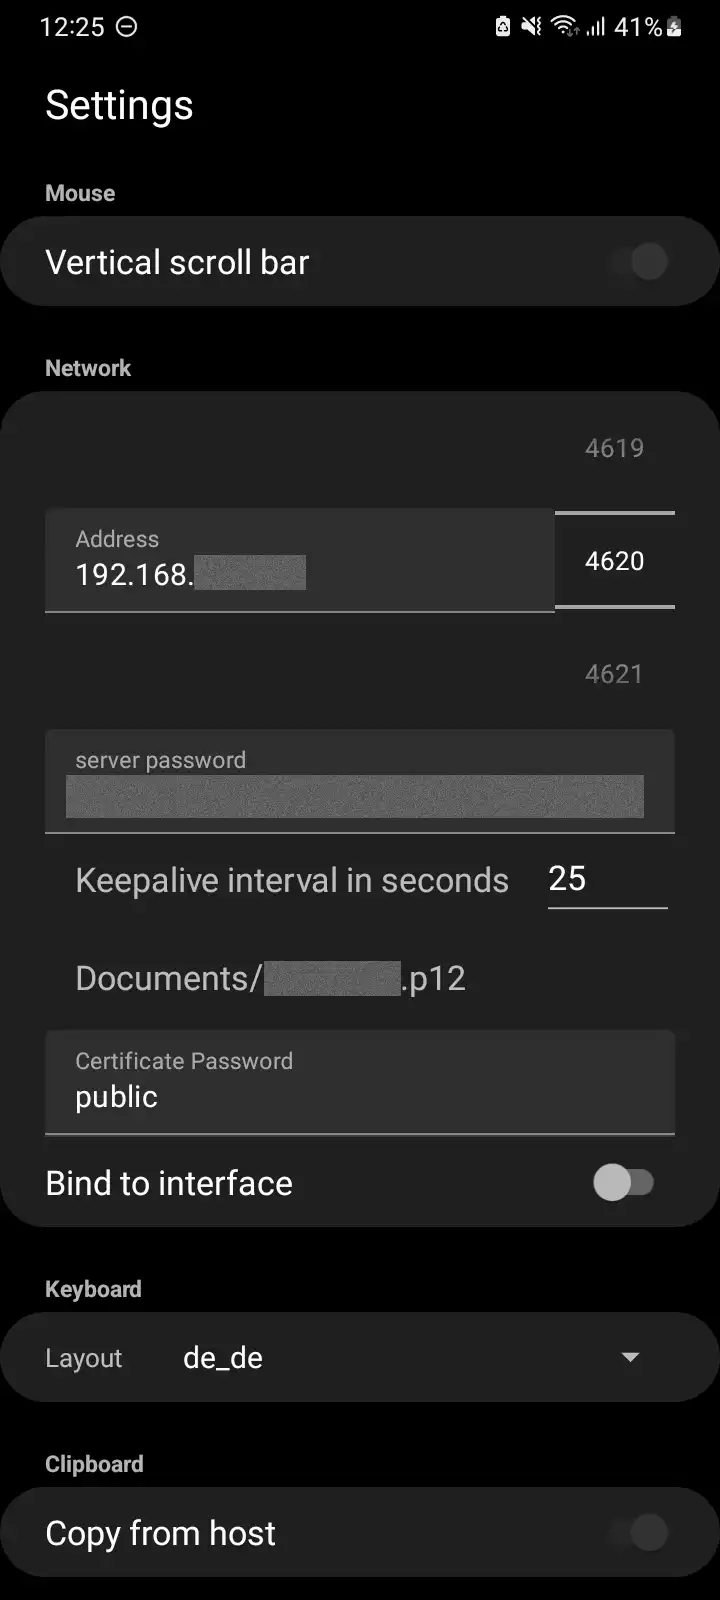
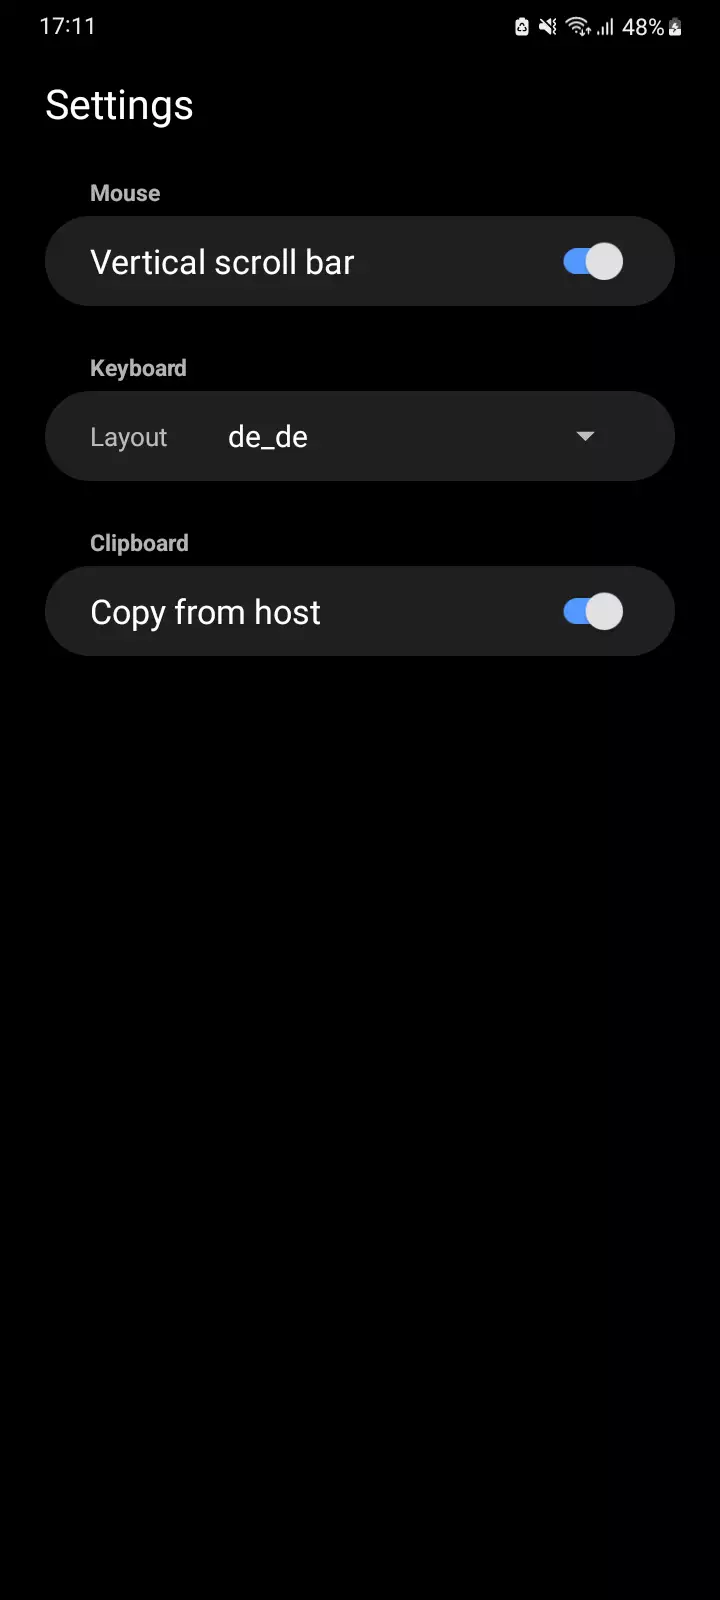
update screenshots & README.md

diff --git a/README.md b/README.md
@@ -9,17 +9,18 @@ Requires a [service](https://github.com/kryptonbutterfly/HIDoverWifi_service) to
 
 ## Setup
 
-In order to setup it's best to start with setting up the service first and come back to the setup of the app after that. [setup Service](https://github.com/kryptonbutterfly/HIDoverWifi_service#setup)
+In order to setup it's best to start with setting up the service first and come back to the setup of the app afterwards. [setup Service](https://github.com/kryptonbutterfly/HIDoverWifi_service#setup)
 
 #### App Setup
 
-* Download and install [HIDoverWifi.apk](https://github.com/kryptonbutterfly/HIDoverWifi_android/releases/download/v2.0.0/HIDoverWifi.apk)
+* Download and install [HIDoverWifi.apk](https://github.com/kryptonbutterfly/HIDoverWifi_android/releases/download/v3.0.0/HIDoverWifi.apk)
 * copy the public .p12 certificate to your phone
 * connect to the wifi network your computer is connected to
 * start the app
-* open the settings
-* Set `Address` to the ip of your pc
-* Set the `server password`
-* Ensure the keepalive interval is > 0 and < then the timeout configured in the service.
-* click `Certificate File` and select the .p12 certificate
-* Set the `Certificate Password` (the default password is `public`)
+* Add a new device:
+    * Set `Device name` to the name of your pc
+    * Set `Address` to the ip of your pc
+    * Set the `server password`
+    * Ensure the keepalive interval is > 0 and < then the timeout configured in the service.
+    * click `Certificate File` and select the .p12 certificate
+    * Set the `Certificate Password` (the default password is `public`)